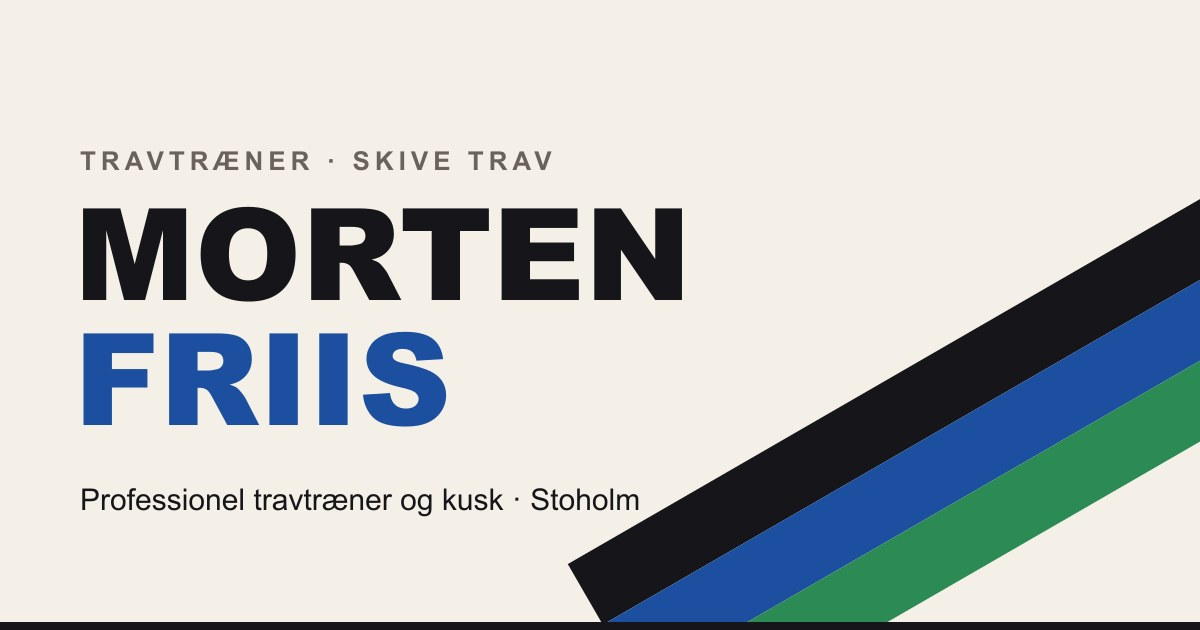
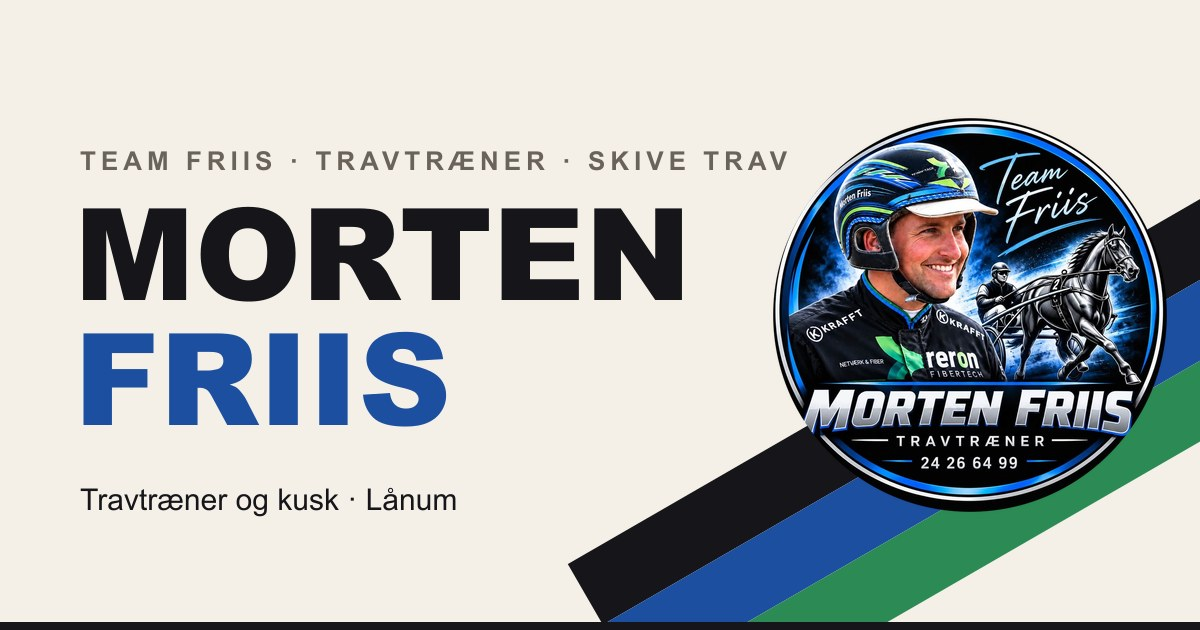
Team Friis: billeder, emblem og oplysninger fra Facebook-siden
Emblemet på forsiden, sæsonens tal i en programstrimmel, portræt af Morten,
løbsfoto som billedbånd og fem hestekort. Navnet Team Friis, Lånum, e-mail
og Facebook-siden er sat ind.

Changed region(s): [[0.4933, 0.181, 0.9867, 0.8143], [0.0617, 0.754, 0.555, 0.8143], [0.0925, 0.2413, 0.4625, 0.2714]]

diff --git a/assets/css/site.css b/assets/css/site.css
@@ -122,15 +122,6 @@ h3 { font-size: 1.15rem; }
 .hero h1 span:last-child { color: var(--blaa); }
 .hero__indled { max-width: 50ch; font-size: clamp(1.08rem, 1.4vw, 1.25rem); }
 
-.programkort { position: relative; background: var(--kort); border: 2px solid var(--blaek); box-shadow: 10px 10px 0 var(--blaek); }
-.programkort__top { display: flex; justify-content: space-between; padding: 12px 18px; background: var(--blaek); color: #fff; font-size: .78rem; font-weight: 700; font-stretch: 120%; letter-spacing: .14em; text-transform: uppercase; }
-.programkort dl div { display: flex; justify-content: space-between; align-items: baseline; gap: 16px; padding: 14px 18px; border-bottom: 1px solid var(--linje); }
-.programkort dt { font-size: .9rem; color: var(--daemp); }
-.programkort dd { font-size: clamp(1.4rem, 2.2vw, 1.9rem); font-weight: 800; font-stretch: 115%; font-variant-numeric: tabular-nums; }
-.programkort__naeste { padding: 16px 18px; background: var(--papir); border-bottom: 1px solid var(--linje); }
-.programkort__naeste .mini { margin-bottom: 6px; }
-.programkort__start b { display: block; font-size: 1.15rem; font-stretch: 115%; }
-.programkort__kilde { padding: 10px 18px; font-size: .75rem; color: var(--daemp); }
 
 /* ---------- sektioner ---------- */
 
@@ -318,6 +309,8 @@ html:not(.js) .fb { display: none; }
 .formboks { margin-top: 32px; }
 
 .kontakt { display: grid; grid-template-columns: 1fr 1fr; gap: 18px; }
+.kontakt__felt--kort { grid-column: 1 / -1; }
+.kontakt__stor a { white-space: nowrap; }
 .kontakt__felt { padding: clamp(24px, 3vw, 36px); background: var(--kort); border: 2px solid var(--blaek); }
 .kontakt__felt--tlf { background: var(--blaa); color: #fff; border-color: var(--blaa); }
 .kontakt__felt--tlf .mini { color: rgba(255, 255, 255, .7); }
@@ -331,11 +324,10 @@ html:not(.js) .fb { display: none; }
 @keyframes ind { from { transform: rotate(-30deg) translateX(40%); opacity: 0; } }
 .js [data-vis] { opacity: 0; transform: translateY(20px); transition: opacity .8s var(--ease), transform .8s var(--ease); transition-delay: calc(var(--i, 0) * 80ms); }
 .js [data-vis].ses { opacity: 1; transform: none; }
-.hero__tekst > *, .programkort { animation: op .9s var(--ease) both; }
+.hero__tekst > *, .emblem { animation: op .9s var(--ease) both; }
 .hero__tekst > :nth-child(2) { animation-delay: .08s; }
 .hero__tekst > :nth-child(3) { animation-delay: .16s; }
 .hero__tekst > :nth-child(4) { animation-delay: .24s; }
-.programkort { animation-delay: .3s; }
 .hero__skaerf { animation: ind 1.4s var(--ease) .1s both; }
 
 @media (prefers-reduced-motion: reduce) {
@@ -371,7 +363,6 @@ html:not(.js) .fb { display: none; }
   .fakta { position: static; }
   .prog { grid-template-columns: 44px 1fr; }
   .prog__tal { grid-column: 2; grid-template-columns: repeat(3, auto); justify-content: start; gap: 22px; text-align: left; }
-  .programkort { box-shadow: 6px 6px 0 var(--blaek); }
 }
 @media (max-width: 560px) {
   .navnetraek { font-size: 1rem; }
@@ -384,4 +375,59 @@ html:not(.js) .fb { display: none; }
   .sidehoved__fakta { gap: 28px; }
   .kontakt__felt--kort { grid-template-columns: 1fr; }
   .fbkort { grid-auto-columns: 78%; }
+}
+
+/* ---------- Team Friis: emblem, programstrimmel, portræt, hestekort, billedbånd ---------- */
+
+.emblem { justify-self: end; width: min(100%, 440px); margin: 0; filter: drop-shadow(0 18px 30px rgba(22, 22, 26, .28)); }
+.emblem img { width: 100%; height: auto; }
+
+.programkort { background: var(--blaek); color: #fff; }
+.programkort__inner { display: grid; grid-template-columns: auto 1fr auto; align-items: center; gap: 18px clamp(28px, 4vw, 56px); padding-block: 22px 16px; }
+.programkort__top { font-size: 1.15rem; font-weight: 800; font-stretch: 125%; text-transform: uppercase; line-height: 1.1; }
+.programkort__top span { display: block; font-size: .62rem; font-weight: 700; letter-spacing: .14em; color: rgba(255, 255, 255, .6); }
+.programkort dl { display: grid; grid-template-columns: repeat(4, auto); justify-content: start; gap: clamp(20px, 3.4vw, 52px); }
+.programkort dl div { display: flex; flex-direction: column-reverse; gap: 2px; }
+.programkort dt { font-size: .66rem; font-weight: 700; letter-spacing: .12em; text-transform: uppercase; color: rgba(255, 255, 255, .6); }
+.programkort dd { font-size: clamp(1.3rem, 2.2vw, 1.9rem); font-weight: 800; font-stretch: 120%; font-variant-numeric: tabular-nums; white-space: nowrap; }
+.programkort dl div:nth-child(2) dd { color: #7fa6ef; }
+.programkort__naeste { padding-left: clamp(20px, 3vw, 40px); border-left: 1px solid rgba(255, 255, 255, .2); }
+.programkort__naeste .mini { margin-bottom: 4px; color: rgba(255, 255, 255, .6); }
+.programkort__start b { display: block; }
+.programkort__kilde { grid-column: 1 / -1; font-size: .72rem; color: rgba(255, 255, 255, .45); }
+
+.traener { display: grid; grid-template-columns: minmax(220px, 340px) 1fr; gap: clamp(28px, 5vw, 72px); align-items: center; }
+.traener p + p { margin-top: 14px; }
+.traener__foto, .fakta__foto { margin: 0; border: 2px solid var(--blaek); box-shadow: 10px 10px 0 var(--blaa); }
+.traener__foto img, .fakta__foto img { width: 100%; height: auto; }
+.fakta__foto { margin: -24px -24px 20px; border-width: 0 0 2px; box-shadow: none; }
+
+.hestekort { display: grid; grid-template-columns: repeat(5, 1fr); gap: 14px; margin-bottom: clamp(32px, 4vw, 48px); }
+.hestekort a { display: block; background: var(--blaek); color: #fff; border: 2px solid var(--blaek); transition: transform .3s var(--ease); }
+.hestekort a:hover { transform: translateY(-4px); }
+.hestekort img { width: 100%; height: auto; aspect-ratio: 4 / 3; object-fit: cover; }
+.hestekort span { display: flex; justify-content: space-between; align-items: center; padding: 10px 12px; font-size: .85rem; font-weight: 700; font-stretch: 112%; }
+
+.baand { margin: 0; border-block: 2px solid var(--blaek); background: var(--blaek); }
+.baand img { width: 100%; height: clamp(240px, 36vw, 500px); object-fit: cover; object-position: 50% 28%; }
+.baand figcaption { padding-block: 8px; font-size: .74rem; color: rgba(255, 255, 255, .6); }
+
+.kontakt__stor--mail { font-size: clamp(1.2rem, 2.2vw, 1.9rem); }
+.kontakt__stor--mail a { white-space: normal; overflow-wrap: anywhere; }
+
+@media (max-width: 1100px) {
+  .programkort__inner { grid-template-columns: 1fr; }
+  .programkort__naeste { padding-left: 0; border-left: 0; }
+  .hestekort { grid-template-columns: none; grid-auto-flow: column; grid-auto-columns: minmax(240px, 40%); overflow-x: auto; scroll-snap-type: x mandatory; padding-bottom: 8px; }
+  .hestekort li { scroll-snap-align: start; }
+}
+@media (max-width: 900px) {
+  .emblem { justify-self: center; width: min(78%, 360px); }
+  .traener { grid-template-columns: 1fr; }
+  .traener__foto { max-width: 340px; }
+  .kontakt { grid-template-columns: 1fr; }
+}
+@media (max-width: 560px) {
+  .programkort dl { grid-template-columns: repeat(2, auto); }
+  .hestekort { grid-auto-columns: 78%; }
 }

diff --git a/README.md b/README.md
@@ -1,6 +1,6 @@
-# Morten Friis Travtræning – hjemmeside
+# Team Friis – hjemmeside
 
-Statisk site for travtræner Morten Friis (licens 20245). Ingen afhængigheder – kræver kun Node 20+.
+Statisk site for Team Friis og travtræner Morten Friis (licens 20245). Ingen afhængigheder – kræver kun Node 20+.
 
 ```
 node build.mjs            byg til dist/ med de gemte data
@@ -40,3 +40,5 @@ Alt indhold står i `templates.mjs`: kontaktoplysninger i `SITE` øverst. Design
 | Født 1983, A1-licens, hjemmebane Skive Trav, adresse, telefon, løbsfarver (sort/blå/grøn) | Dansk Hestevæddeløb (licens 20245) |
 | Træningsliste, resultater, statistik | Dansk Hestevæddeløb, opdateres dagligt |
 | Skive Trav: åbnet 1948, Flyvej siden 1966, lysanlæg 2019–20 | skive-trav.dk/om-os |
+| Team Friis, Lånum, e-mail, monterytter Tineke Borup | Facebook-siden facebook.com/Team.Friis (introduktion) |
+| Emblem, portræt, løbsfoto og hestekort | Team Friis' Facebook-side |
